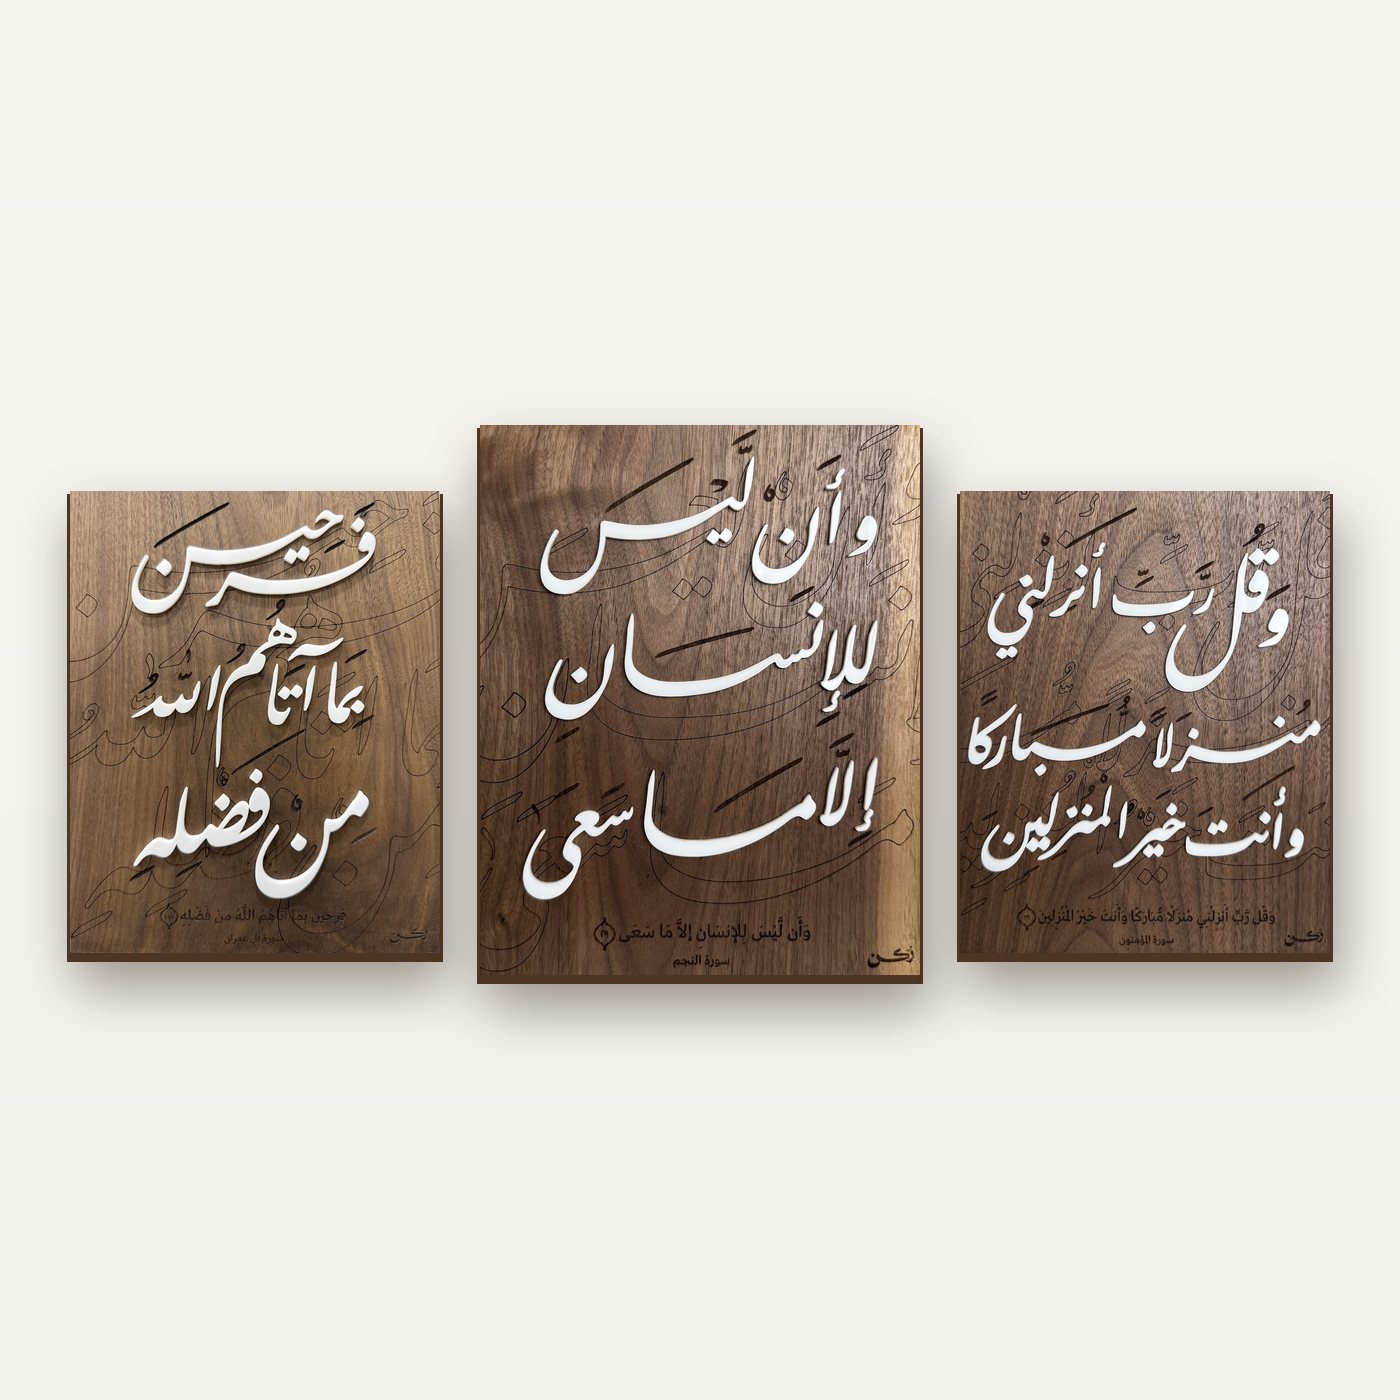
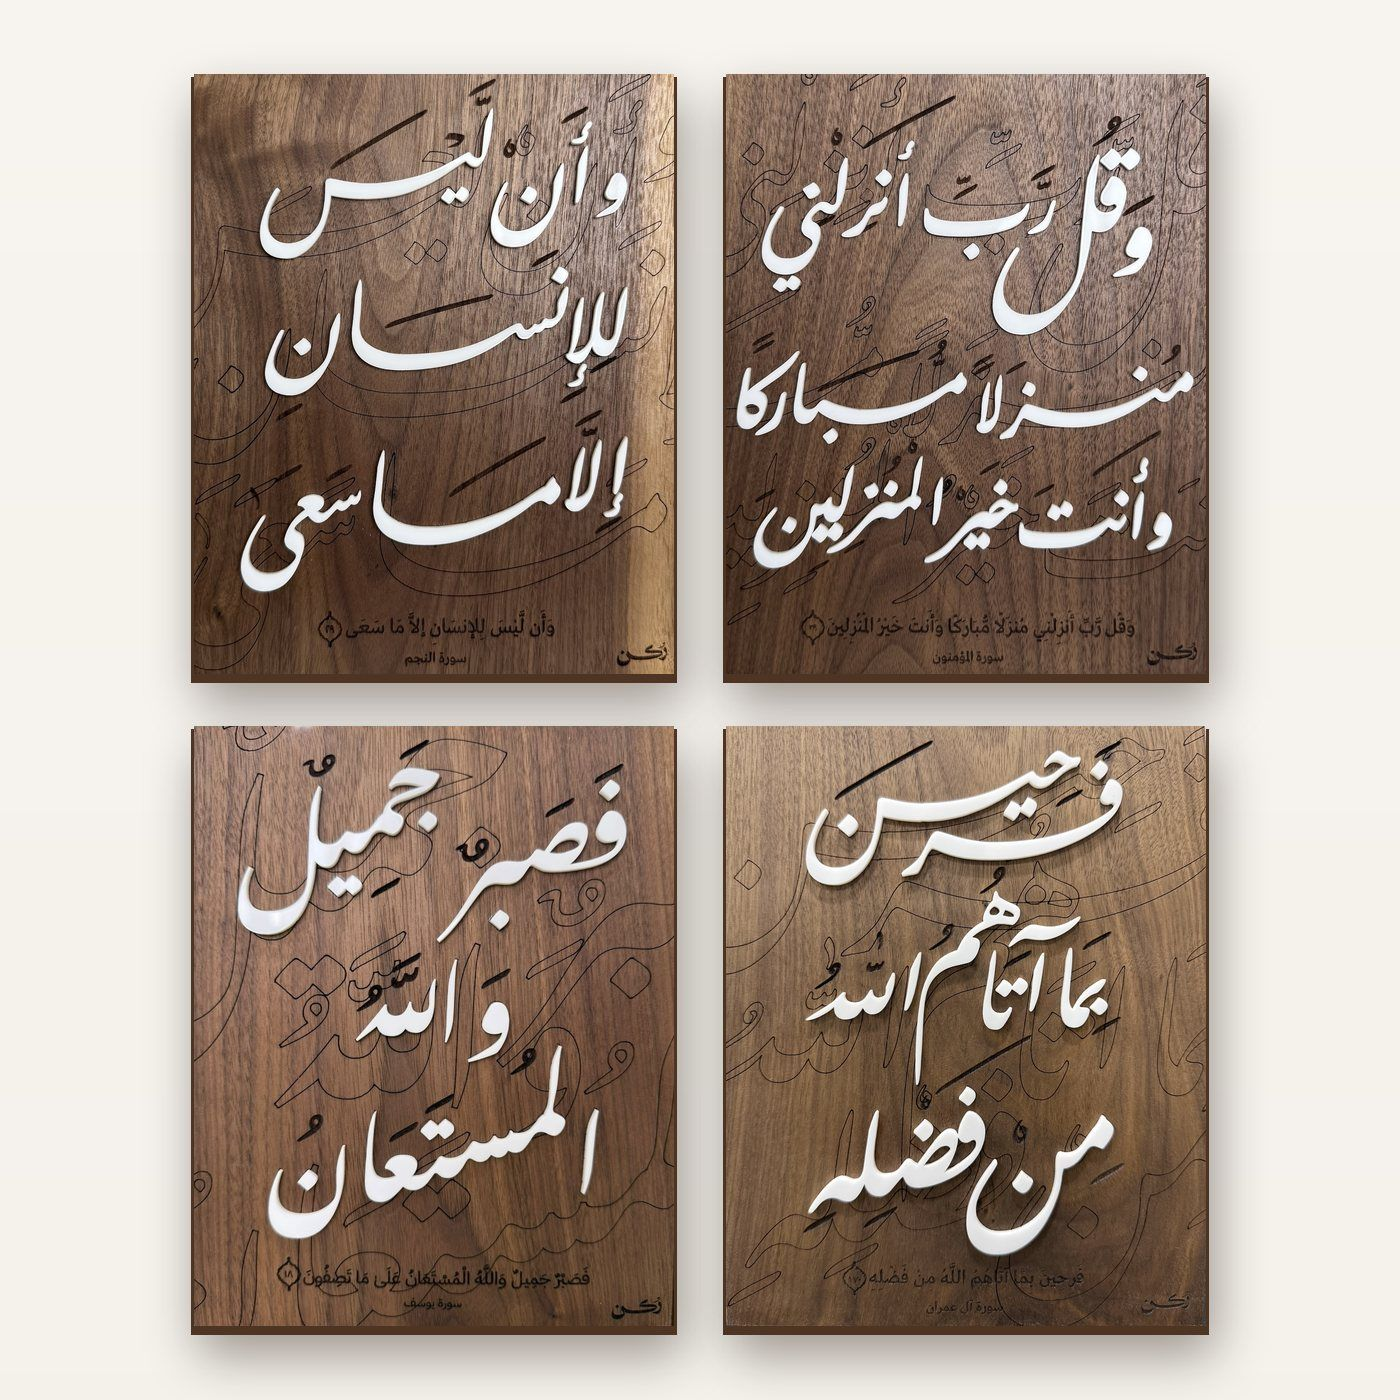
Add product: لوحة صبرٌ جميل (Yusuf 12:18) to Sukoon collection
- 3 product photos, 4-plaque collection composite, collection copy updated
- Desktop grid 4 columns; collection card spans full row when product count is even

Claude-Session: https://claude.ai/code/session_01X4Yk9sT4TL5deHhFVoNUt9

diff --git a/index.html b/index.html
@@ -126,7 +126,7 @@ section.s{padding:64px 0}
 .more{text-align:center;margin-top:28px}
 
 /* product grid */
-.grid{display:grid;grid-template-columns:repeat(3,1fr);gap:20px}
+.grid{display:grid;grid-template-columns:repeat(4,1fr);gap:20px}
 @media(max-width:749px){.grid{grid-template-columns:1fr 1fr;gap:12px}}
 .card{display:flex;flex-direction:column;background:#fff;border:1px solid var(--line);border-radius:var(--rc);overflow:hidden;transition:box-shadow .25s,transform .25s}
 .card:hover{box-shadow:0 16px 34px -26px rgba(0,0,0,.35);transform:translateY(-2px)}
@@ -161,7 +161,12 @@ section.s{padding:64px 0}
 /* stock */
 .stockn{font-size:12.5px;color:#B4452E;font-weight:500;margin-top:4px}
 /* related */
-.related .grid{grid-template-columns:repeat(3,1fr)}
+.related .grid{grid-template-columns:repeat(4,1fr)}
+.card.coll-card.wide{grid-column:1/-1;display:grid;grid-template-columns:minmax(0,5fr) minmax(0,7fr)}
+.card.coll-card.wide .ph{aspect-ratio:1/1}
+.card.coll-card.wide .body{justify-content:center;padding:16px 18px}
+.card.coll-card.wide .ay{display:block}
+@media(min-width:750px){.card.coll-card.wide{grid-template-columns:minmax(0,1fr) minmax(0,3fr)}.card.coll-card.wide .body{padding:24px 32px}.card.coll-card.wide .nm{font-size:18px}.card.coll-card.wide .ay{font-family:var(--f);font-size:14px}.card.coll-card.wide .btn{width:auto;align-self:flex-start;padding:0 32px}}
 @media(max-width:749px){.related .grid{display:flex;overflow-x:auto;gap:12px;scroll-snap-type:x mandatory;scrollbar-width:none;padding-bottom:6px;margin:0 -16px;padding-inline:16px}.related .grid::-webkit-scrollbar{display:none}.related .card{flex:0 0 62%;scroll-snap-align:start}}
 /* image with text */
 .iwt{display:grid;grid-template-columns:1fr 1fr;gap:0;border:1px solid var(--line);border-radius:var(--rc);overflow:hidden}
@@ -457,7 +462,7 @@ footer .fine{border-top:1px solid var(--line);margin-top:36px;padding-top:18px;d
       <div class="tx">
         <div class="eyebrow">المجموعة الأولى</div>
         <h2 id="coll-title">مجموعة سُكون</h2>
-        <p id="coll-text">لوحات صُنِعت من الخشب الطبيعي لتسكن المكان، لا لتزاحمه. ثلاث آيات تكمل بعضها: للبيت، وللسعي، وللرضا — تُقتنى معًا أو تُهدى مجموعة كاملة.</p>
+        <p id="coll-text">لوحات صُنِعت من الخشب الطبيعي لتسكن المكان، لا لتزاحمه. أربع آيات تكمل بعضها: للبيت، وللسعي، وللرضا، وللصبر — تُقتنى معًا أو تُهدى مجموعة كاملة.</p>
         <div class="list" id="colllist"></div>
         <div style="display:flex;gap:16px;align-items:center;flex-wrap:wrap"><button class="btn btn-p" onclick="addAll()">أضف المجموعة إلى السلة</button><span class="price" style="margin:0" id="coll-price"></span></div>
       </div>
@@ -596,8 +601,8 @@ footer .fine{border-top:1px solid var(--line);margin-top:36px;padding-top:18px;d
 
 
 /* ================= DATA (defaults; overridden by content/*.json when hosted) ================= */
-let SITE={"hero_title": "نملأ كل ركنٍ بذكرياتٍ جميلة", "hero_text": "قطع صُنعت يدويًا في البحرين، بتغليف هدية جاهز.", "hero_image": "assets/hero.jpg", "collection_title": "مجموعة سُكون", "collection_text": "لوحات صُنِعت من الخشب الطبيعي لتسكن المكان، لا لتزاحمه. ثلاث آيات تكمل بعضها: للبيت، وللسعي، وللرضا — تُقتنى معًا أو تُهدى مجموعة كاملة.", "collection_image": "assets/collection.jpg", "story_title": "عن رُكن", "story_text": "«رُكن» تعني الزاوية والسند. بدأنا من فكرة بسيطة: أن تكون للآية زاويةٌ في البيت تُرى كل يوم. نختار خشب الجوز لأنه لا يشبه غيره، ونُبقي التصميم هادئًا ليكون الحضور كله للكلمة.", "story_quote": "نملأ كل ركنٍ بذكرياتٍ جميلة.", "custom_image": "assets/custom.jpg", "whatsapp": "97339396882", "instagram": "rokn.bh", "iban": "BH39ALSA00802695150000", "bank": "بنك السلام", "beneficiary": "Rokn", "delivery_fee": 1.5, "delivery_days": "خلال 24 ساعة", "custom_from_price": 18, "ga_id": "G-KH6MJ230MV", "clarity_id": ""};
-let PIECES={"items": [{"id": "manzil", "name": "لوحة منزلاً", "ayah": "﴿وَقُل رَّبِّ أَنزِلْنِي مُنزَلًا مُّبَارَكًا وَأَنتَ خَيْرُ الْمُنزِلِينَ﴾", "ref": "المؤمنون · 29", "price": 18, "was": null, "badge": "الأكثر طلبًا", "available": true, "desc": "هذه اللوحة ليست مجرد لوحة،\nبل تذكيرٌ يوميّ بأن نسأل الله دائمًا:\nأن يُنزلنا حيث البركة،\nوأن يجعل كل بدايةٍ لنا مغمورةً بعنايته.\n\nكولكشن سُكون من رُكن — حيث يسكن المعنى قبل المكان.\nصُنعت من خشب الجوز الطبيعي، بمقاس 20×25 سم.", "image1": "assets/manzil-0.jpg", "image2": "assets/manzil-3.jpg", "image3": "assets/manzil-4.jpg", "image4": "assets/manzil-1.jpg", "image5": "assets/manzil-2.jpg"}, {"id": "saay", "name": "لوحة السعي", "ayah": "﴿وَأَن لَّيْسَ لِلْإِنسَانِ إِلَّا مَا سَعَىٰ﴾", "ref": "النجم · 39", "price": 18, "was": null, "badge": "", "available": true, "desc": "ليست كل خطوة تُرى، ولا كل سعيٍ يُحكى،\nلكن الله يرى التعب،\nويعلم كم من الأمنيات بدأت بخطوة صغيرة،\nوكم من الوصول كان خلفه سعيٌ طويل.\n\nفاسعَ، وثق؛ فما كُتب لك سيأتيك، وما عند الله لا يضيع 🤍\n\nكولكشن سُكون من رُكن — لوحات صُنِعت من الخشب الطبيعي لتسكن المكان، لا لتزاحمه.\nخشب جوز طبيعي، بمقاس 20×25 سم.", "image1": "assets/saay-0.jpg", "image2": "assets/saay-3.jpg", "image3": "assets/saay-4.jpg", "image4": "assets/saay-1.jpg", "image5": "assets/saay-2.jpg"}, {"id": "farihin", "name": "لوحة فرحين", "ayah": "﴿فَرِحِينَ بِمَا آتَاهُمُ اللَّهُ مِن فَضْلِهِ﴾", "ref": "آل عمران · 170", "price": 18, "was": null, "badge": "", "available": true, "desc": "ليست لحظة عابرة،\nبل سكينة تمتدّ وتبقى حيث استقرّ الرضا.\nيأتيك خفيفًا، لكنه يملأ كل شيء،\nحين تدرك أن الفضل كان حاضرًا منذ البداية.\n\nكولكشن سُكون من رُكن — لوحات صُنِعت من الخشب الطبيعي لتسكن المكان، لا لتزاحمه.\nخشب جوز طبيعي، بمقاس 20×25 سم.", "image1": "assets/farihin-0.jpg", "image2": "assets/farihin-3.jpg", "image3": "assets/farihin-4.jpg", "image4": "assets/farihin-1.jpg", "image5": "assets/farihin-2.jpg"}]}.items;
+let SITE={"hero_title": "نملأ كل ركنٍ بذكرياتٍ جميلة", "hero_text": "قطع صُنعت يدويًا في البحرين، بتغليف هدية جاهز.", "hero_image": "assets/hero.jpg", "collection_title": "مجموعة سُكون", "collection_text": "لوحات صُنِعت من الخشب الطبيعي لتسكن المكان، لا لتزاحمه. أربع آيات تكمل بعضها: للبيت، وللسعي، وللرضا، وللصبر — تُقتنى معًا أو تُهدى مجموعة كاملة.", "collection_image": "assets/collection.jpg", "story_title": "عن رُكن", "story_text": "«رُكن» تعني الزاوية والسند. بدأنا من فكرة بسيطة: أن تكون للآية زاويةٌ في البيت تُرى كل يوم. نختار خشب الجوز لأنه لا يشبه غيره، ونُبقي التصميم هادئًا ليكون الحضور كله للكلمة.", "story_quote": "نملأ كل ركنٍ بذكرياتٍ جميلة.", "custom_image": "assets/custom.jpg", "whatsapp": "97339396882", "instagram": "rokn.bh", "iban": "BH39ALSA00802695150000", "bank": "بنك السلام", "beneficiary": "Rokn", "delivery_fee": 1.5, "delivery_days": "خلال 24 ساعة", "custom_from_price": 18, "ga_id": "G-KH6MJ230MV", "clarity_id": ""};
+let PIECES={"items": [{"id": "manzil", "name": "لوحة منزلاً", "ayah": "﴿وَقُل رَّبِّ أَنزِلْنِي مُنزَلًا مُّبَارَكًا وَأَنتَ خَيْرُ الْمُنزِلِينَ﴾", "ref": "المؤمنون · 29", "price": 18, "was": null, "badge": "الأكثر طلبًا", "available": true, "desc": "هذه اللوحة ليست مجرد لوحة،\nبل تذكيرٌ يوميّ بأن نسأل الله دائمًا:\nأن يُنزلنا حيث البركة،\nوأن يجعل كل بدايةٍ لنا مغمورةً بعنايته.\n\nكولكشن سُكون من رُكن — حيث يسكن المعنى قبل المكان.\nصُنعت من خشب الجوز الطبيعي، بمقاس 20×25 سم.", "image1": "assets/manzil-0.jpg", "image2": "assets/manzil-3.jpg", "image3": "assets/manzil-4.jpg", "image4": "assets/manzil-1.jpg", "image5": "assets/manzil-2.jpg"}, {"id": "saay", "name": "لوحة السعي", "ayah": "﴿وَأَن لَّيْسَ لِلْإِنسَانِ إِلَّا مَا سَعَىٰ﴾", "ref": "النجم · 39", "price": 18, "was": null, "badge": "", "available": true, "desc": "ليست كل خطوة تُرى، ولا كل سعيٍ يُحكى،\nلكن الله يرى التعب،\nويعلم كم من الأمنيات بدأت بخطوة صغيرة،\nوكم من الوصول كان خلفه سعيٌ طويل.\n\nفاسعَ، وثق؛ فما كُتب لك سيأتيك، وما عند الله لا يضيع 🤍\n\nكولكشن سُكون من رُكن — لوحات صُنِعت من الخشب الطبيعي لتسكن المكان، لا لتزاحمه.\nخشب جوز طبيعي، بمقاس 20×25 سم.", "image1": "assets/saay-0.jpg", "image2": "assets/saay-3.jpg", "image3": "assets/saay-4.jpg", "image4": "assets/saay-1.jpg", "image5": "assets/saay-2.jpg"}, {"id": "farihin", "name": "لوحة فرحين", "ayah": "﴿فَرِحِينَ بِمَا آتَاهُمُ اللَّهُ مِن فَضْلِهِ﴾", "ref": "آل عمران · 170", "price": 18, "was": null, "badge": "", "available": true, "desc": "ليست لحظة عابرة،\nبل سكينة تمتدّ وتبقى حيث استقرّ الرضا.\nيأتيك خفيفًا، لكنه يملأ كل شيء،\nحين تدرك أن الفضل كان حاضرًا منذ البداية.\n\nكولكشن سُكون من رُكن — لوحات صُنِعت من الخشب الطبيعي لتسكن المكان، لا لتزاحمه.\nخشب جوز طبيعي، بمقاس 20×25 سم.", "image1": "assets/farihin-0.jpg", "image2": "assets/farihin-3.jpg", "image3": "assets/farihin-4.jpg", "image4": "assets/farihin-1.jpg", "image5": "assets/farihin-2.jpg"}, {"id": "sabr", "name": "لوحة صبرٌ جميل", "ayah": "﴿فَصَبْرٌ جَمِيلٌ ۖ وَاللَّهُ الْمُسْتَعَانُ عَلَىٰ مَا تَصِفُونَ﴾", "ref": "يوسف · 18", "price": 18, "was": null, "badge": "جديد", "available": true, "desc": "صبرٌ لا شكوى فيه إلا لله،\nيهدأ به القلب وإن طال الانتظار،\nويطمئن لأن الله هو المستعان\nعلى كل ما ضاق به الصدر، وعجز عنه الكلام.\n\nكولكشن سُكون من رُكن — لوحات صُنِعت من الخشب الطبيعي لتسكن المكان، لا لتزاحمه.\nخشب جوز طبيعي، بمقاس 20×25 سم.", "image1": "assets/sabr-0.jpg", "image2": "assets/sabr-1.jpg", "image3": "assets/sabr-2.jpg"}]}.items;
 let WA,IBAN,BANK,DELIVERY;
 const $=s=>document.querySelector(s), $$=s=>[...document.querySelectorAll(s)];
 const fmt=n=>`<span class="num">${String(Math.round(Number(n)*1000)/1000)}</span> د.ب`;
@@ -689,13 +694,13 @@ const cardHtml=p=>`<div class="card ${p.so?'so':''}">
   <a class="ph" href="#/piece/${p.id}">${p.so?'<span class="pill so">نفدت الكمية</span>':pct(p)?`<span class="pill">خصم <span class="lat">${pct(p)}%</span></span>`:p.badge?`<span class="pill tag">${p.badge}</span>`:''}<img src="${p.img[0]}" alt="${p.name}" loading="lazy" ${pos(p,0)}>${p.img[1]?`<img class="b" src="${p.img[1]}" alt="" loading="lazy" ${pos(p,1)}>`:''}</a>
   <div class="body"><a class="nm" href="#/piece/${p.id}">${p.name}</a><div class="ay">${p.ayah}</div>${priceHtml(p)}${stockNote(p)}
   <button class="btn btn-o" onclick="add('${p.id}')" ${p.so?'disabled':''}>${p.so?'نفدت الكمية':'أضف للسلة'}</button></div></div>`;
-const collCardHtml=()=>{const av=PIECES.filter(p=>!p.so);const sum=av.reduce((a,p)=>a+p.price,0);if(av.length<2)return '';return `<div class="card coll-card">
+const collCardHtml=(wide)=>{const av=PIECES.filter(p=>!p.so);const sum=av.reduce((a,p)=>a+p.price,0);if(av.length<2)return '';return `<div class="card coll-card${wide?' wide':''}">
   <a class="ph" href="#/" data-go="coll"><span class="pill tag">المجموعة كاملة</span><img src="${SITE.collection_image}" alt="مجموعة سُكون" loading="lazy" style="object-position:center 50%"></a>
   <div class="body"><a class="nm" href="#/" data-go="coll">${SITE.collection_title}</a><div class="ay">${av.length} لوحات · ${av.map(p=>p.name.replace('لوحة ','')).join('، ')}</div><div class="price"><b class="reg">${fmt(sum)}</b></div>
   <button class="btn btn-o" onclick="addAll()">أضف المجموعة</button></div></div>`};
 function renderHome(){
 $('#gallery').innerHTML=PIECES.map(cardHtml).join('');
-$('#gallery').insertAdjacentHTML('beforeend',collCardHtml());
+$('#gallery').insertAdjacentHTML('beforeend',collCardHtml(PIECES.length%2===0));
 $('#colllist').innerHTML=PIECES.filter(p=>!p.so).map(p=>`<div><span class="ay">${p.ayah}</span><span>${fmt(p.price)}</span></div>`).join('');
   const av=PIECES.filter(p=>!p.so);const sum=av.reduce((a,p)=>a+p.price,0),sumWas=av.reduce((a,p)=>a+(p.was||p.price),0);
   $('#coll-price').innerHTML=(sumWas>sum?`<s>${fmt(sumWas)}</s>`:'')+`<b class="${sumWas>sum?'':'reg'}">${fmt(sum)}</b>`;
